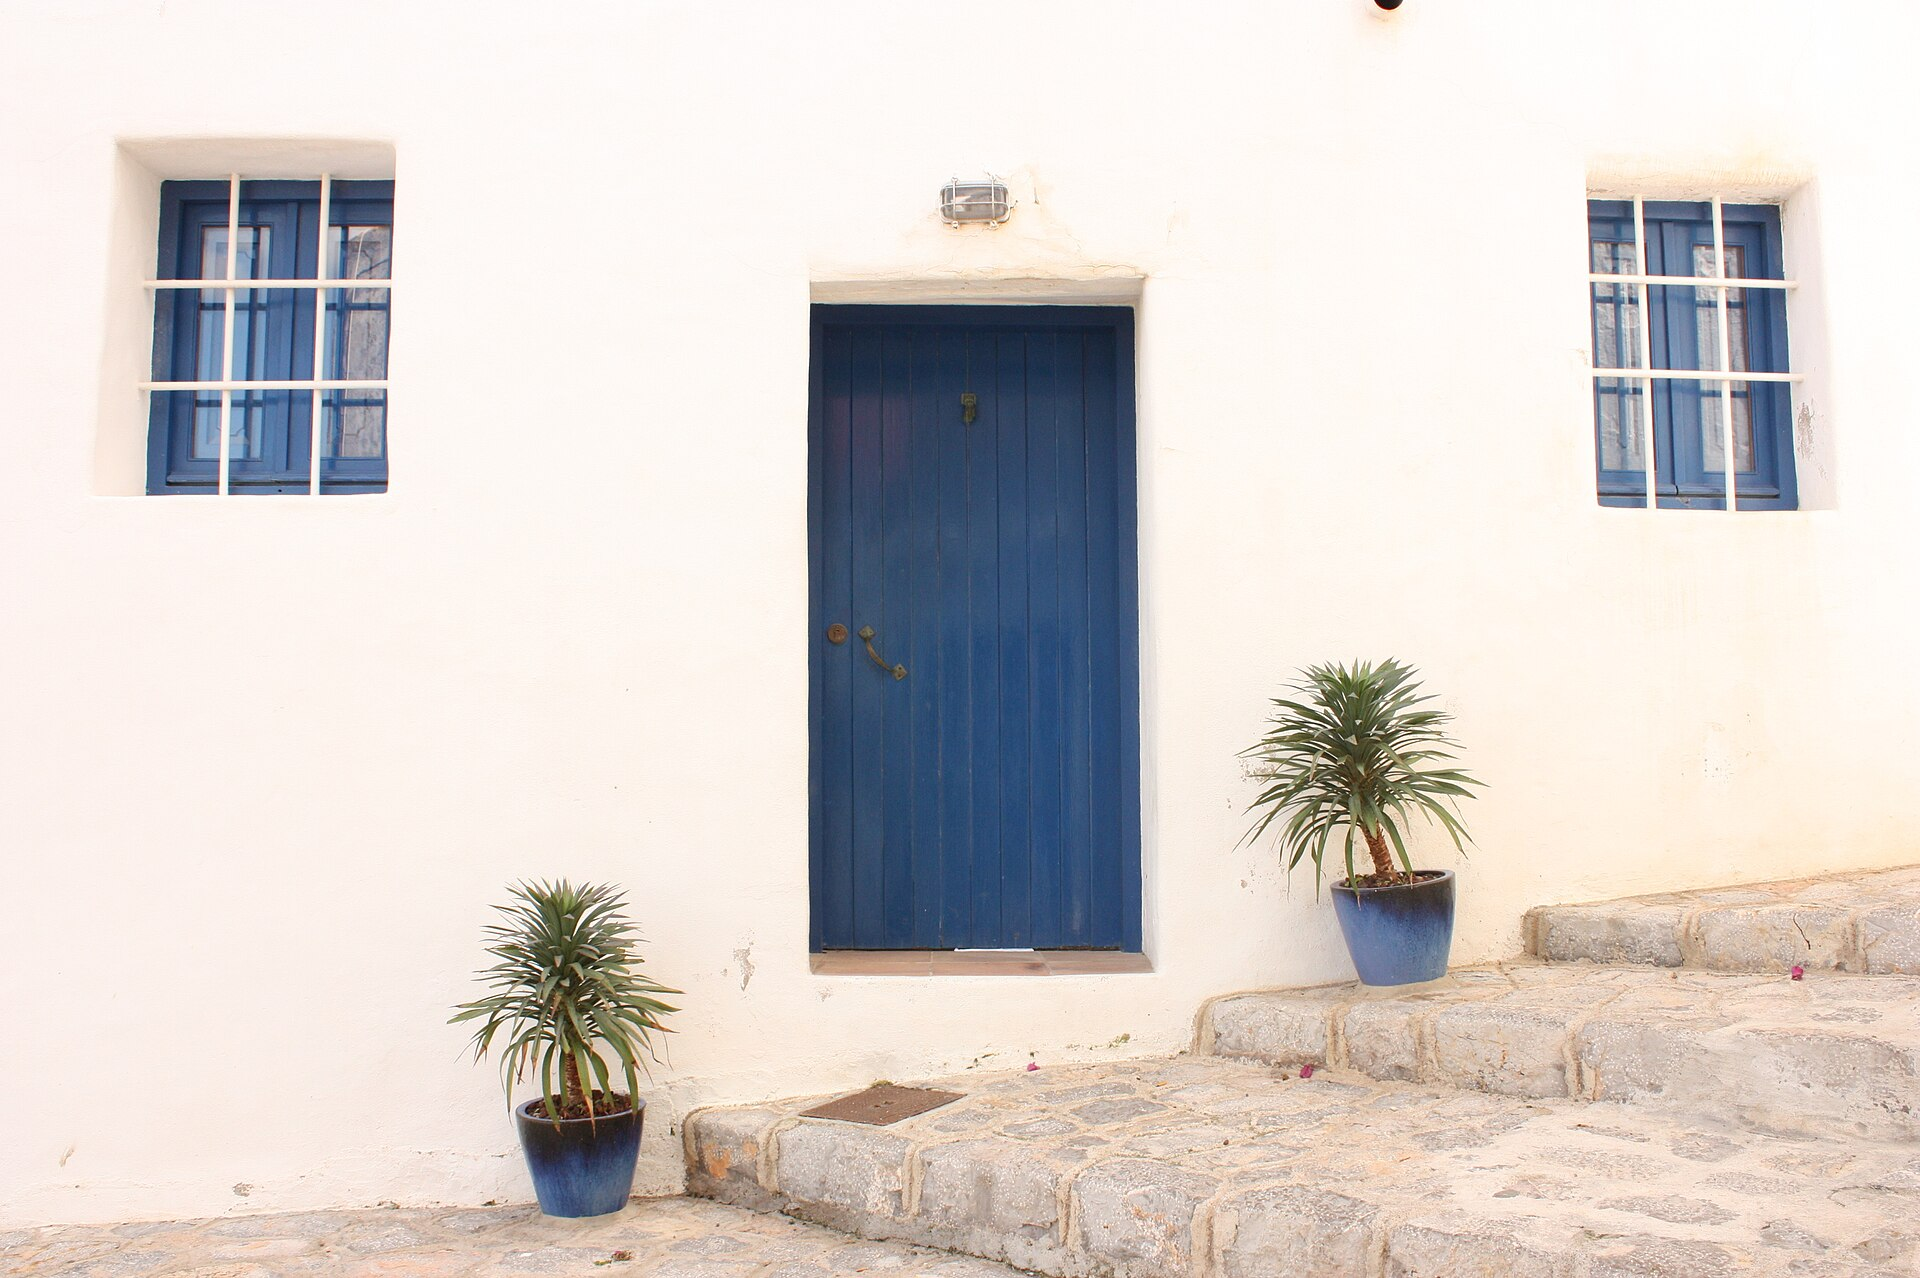
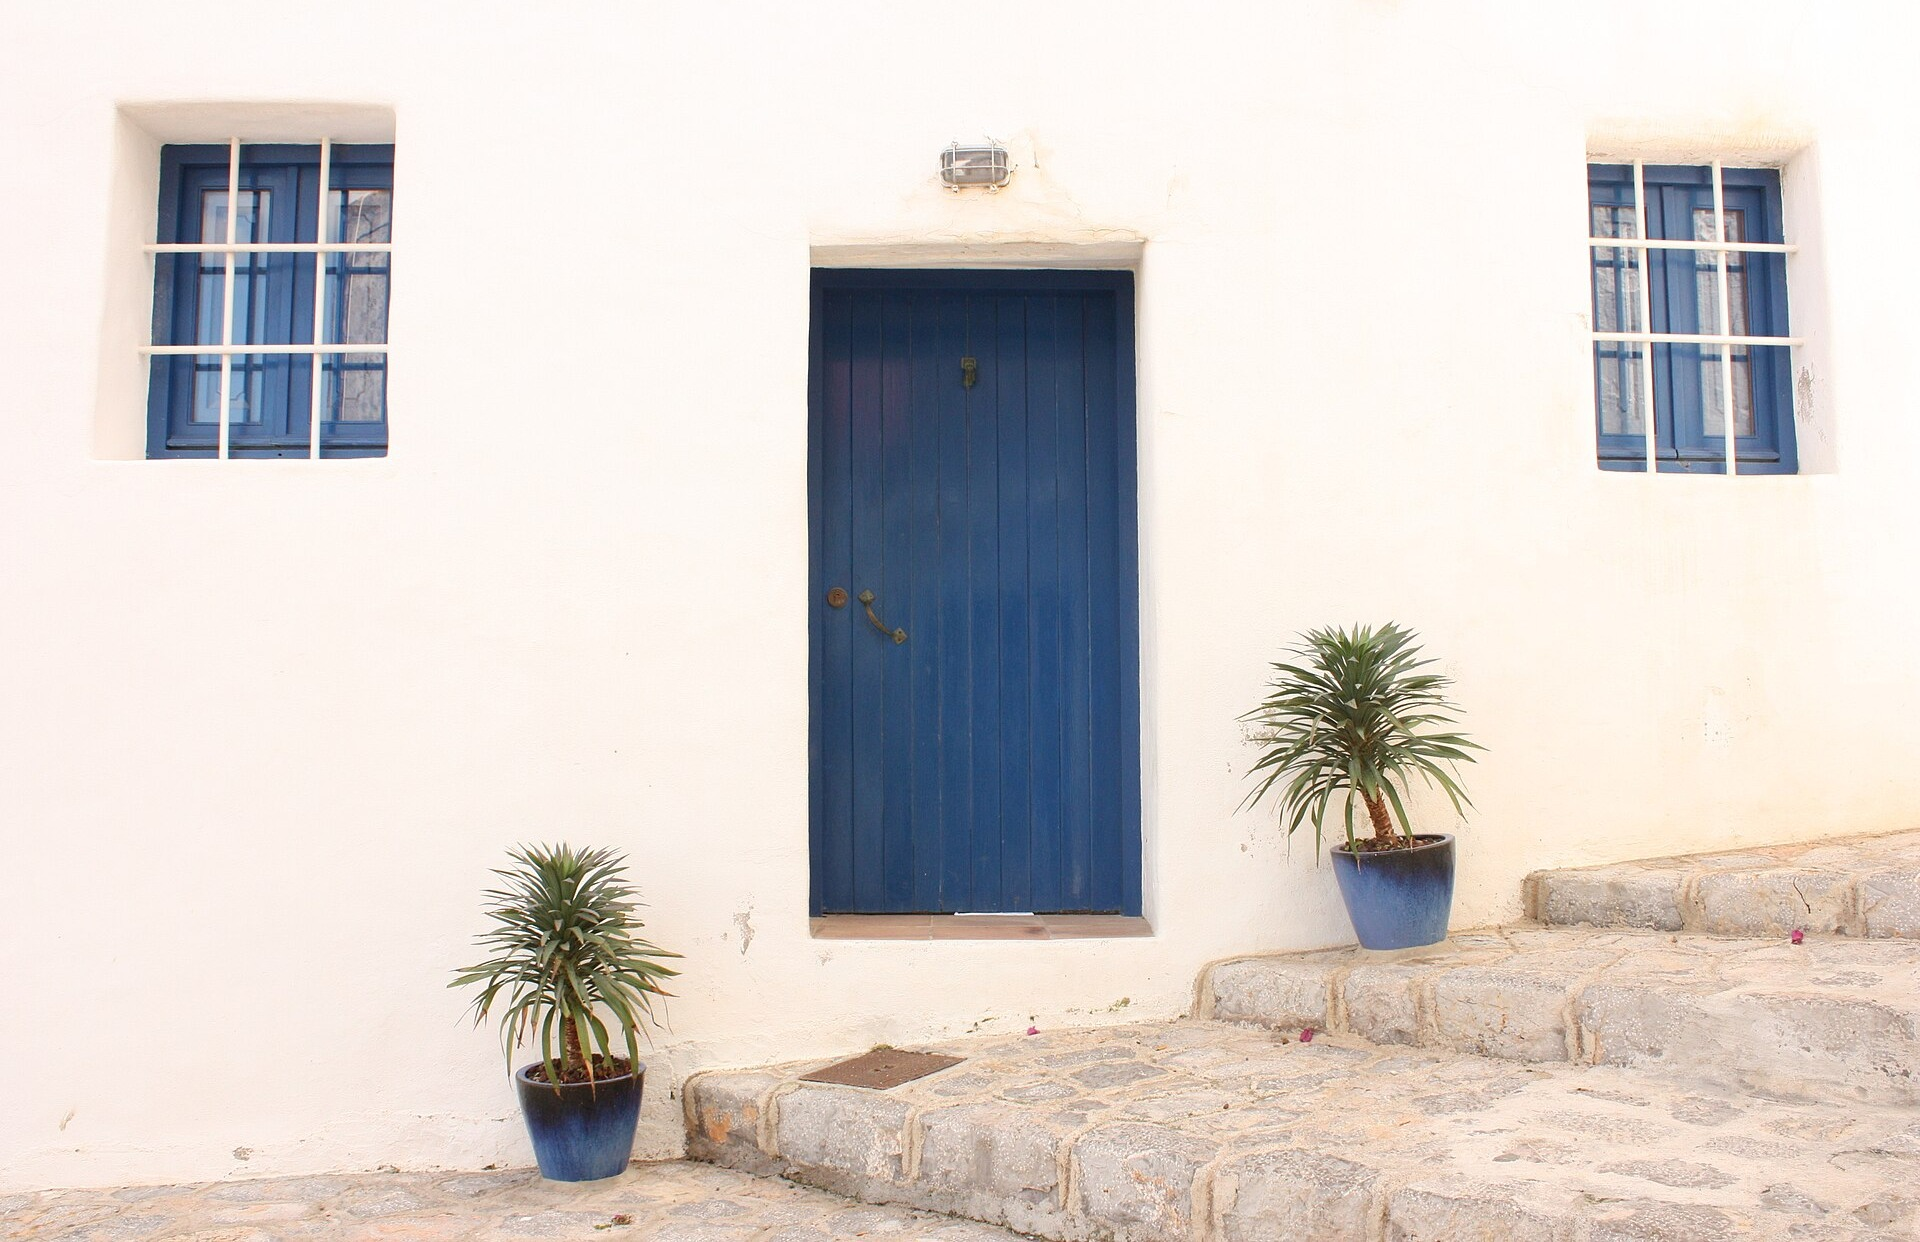
Trim a blemish from the opening photograph
Claude-Session: https://claude.ai/code/session_01QZ4oXmiVwDQG7aZpCMniAU

diff --git a/projects/balearic-real-estate/DESIGN.md b/projects/balearic-real-estate/DESIGN.md
@@ -1,0 +1,297 @@
+---
+name: Solell
+description: A small estate agency for Ibiza and Mallorca, set like an almanac on limewash, sand and terracotta.
+colors:
+  terracotta: "#A9492A"
+  terracotta-deep: "#8C3A1F"
+  on-terracotta: "#FBF4E8"
+  chalk: "#F5F2EA"
+  sand: "#E8DDC9"
+  ink: "#2A211B"
+  stone: "#665C51"
+  line: "#D5C9B4"
+  field-line: "#77695A"
+  error: "#8C2A14"
+typography:
+  display:
+    fontFamily: "Newsreader, Newsreader Fallback, Georgia, serif"
+    fontSize: "clamp(2.75rem, 5.6vw + 1.2rem, 5.75rem)"
+    fontWeight: 300
+    lineHeight: 0.98
+    letterSpacing: "-0.025em"
+  headline:
+    fontFamily: "Newsreader, Newsreader Fallback, Georgia, serif"
+    fontSize: "clamp(2.25rem, 3.4vw + 1.3rem, 4rem)"
+    fontWeight: 300
+    lineHeight: 1.02
+    letterSpacing: "-0.02em"
+  title:
+    fontFamily: "Newsreader, Newsreader Fallback, Georgia, serif"
+    fontSize: "clamp(1.75rem, 2.5vw, 2.5rem)"
+    fontWeight: 300
+    lineHeight: 1
+    letterSpacing: "-0.02em"
+  subtitle:
+    fontFamily: "Newsreader, Newsreader Fallback, Georgia, serif"
+    fontSize: "clamp(1.375rem, 1vw + 1.1rem, 1.75rem)"
+    fontWeight: 300
+    lineHeight: 1.32
+  lead:
+    fontFamily: "Newsreader, Newsreader Fallback, Georgia, serif"
+    fontSize: "clamp(1.125rem, 0.4vw + 1.02rem, 1.25rem)"
+    fontWeight: 400
+    lineHeight: 1.5
+  body:
+    fontFamily: "Hanken Grotesk, Hanken Fallback, system-ui, sans-serif"
+    fontSize: "1.0625rem"
+    fontWeight: 400
+    lineHeight: 1.55
+  action:
+    fontFamily: "Hanken Grotesk, Hanken Fallback, system-ui, sans-serif"
+    fontSize: "0.9375rem"
+    fontWeight: 500
+    lineHeight: 1
+  caption:
+    fontFamily: "Hanken Grotesk, Hanken Fallback, system-ui, sans-serif"
+    fontSize: "0.875rem"
+    fontWeight: 400
+    lineHeight: 1.4
+  label:
+    fontFamily: "Hanken Grotesk, Hanken Fallback, system-ui, sans-serif"
+    fontSize: "0.78rem"
+    fontWeight: 500
+    lineHeight: 1.2
+    letterSpacing: "0.14em"
+rounded:
+  none: "0"
+  control: "2px"
+spacing:
+  s1: "0.25rem"
+  s2: "0.5rem"
+  s3: "0.75rem"
+  s4: "1rem"
+  s5: "1.5rem"
+  s6: "2rem"
+  s7: "3rem"
+  s8: "4rem"
+  s9: "6rem"
+  s10: "8rem"
+  gutter: "clamp(1.25rem, 4.4vw, 4rem)"
+  section: "clamp(4.5rem, 9vw, 9rem)"
+  measure: "34rem"
+  max: "90rem"
+components:
+  button-primary:
+    backgroundColor: "{colors.terracotta}"
+    textColor: "#ffffff"
+    typography: "{typography.action}"
+    rounded: "{rounded.control}"
+    padding: "0 1.5rem"
+    height: "3rem"
+  button-primary-hover:
+    backgroundColor: "{colors.terracotta-deep}"
+  button-quiet:
+    backgroundColor: "transparent"
+    textColor: "{colors.ink}"
+    typography: "{typography.action}"
+    rounded: "{rounded.control}"
+    padding: "0 1.5rem"
+    height: "3rem"
+  button-quiet-hover:
+    backgroundColor: "{colors.ink}"
+    textColor: "{colors.chalk}"
+  button-light:
+    backgroundColor: "{colors.on-terracotta}"
+    textColor: "{colors.ink}"
+    typography: "{typography.action}"
+    rounded: "{rounded.control}"
+    padding: "0 1.5rem"
+    height: "3rem"
+  button-light-hover:
+    backgroundColor: "{colors.ink}"
+    textColor: "{colors.on-terracotta}"
+  text-link:
+    textColor: "{colors.ink}"
+    typography: "{typography.action}"
+    padding: "0.75rem 0"
+    height: "2.75rem"
+  text-link-hover:
+    textColor: "{colors.terracotta-deep}"
+  input:
+    backgroundColor: "{colors.chalk}"
+    textColor: "{colors.ink}"
+    typography: "{typography.body}"
+    rounded: "{rounded.control}"
+    padding: "0.75rem 1rem"
+    height: "3rem"
+  choice:
+    backgroundColor: "{colors.chalk}"
+    textColor: "{colors.ink}"
+    rounded: "{rounded.control}"
+    padding: "0 1.5rem"
+    height: "2.75rem"
+  choice-selected:
+    backgroundColor: "{colors.ink}"
+    textColor: "{colors.chalk}"
+  frame:
+    backgroundColor: "{colors.sand}"
+    rounded: "{rounded.none}"
+  name-tab:
+    backgroundColor: "{colors.chalk}"
+    textColor: "{colors.ink}"
+    typography: "{typography.title}"
+    padding: "0.36em 0.6em 0.08em 0"
+  panel:
+    backgroundColor: "{colors.sand}"
+    rounded: "{rounded.none}"
+    padding: "clamp(1.5rem, 4vw, 3.5rem)"
+---
+
+# Design System: Solell
+
+## Overview
+
+**Creative North Star: "The Almanac"**
+
+Solell reads like a small printed almanac of houses: each entry has a name, a place and a sentence before it has a figure. The page is paper. A chalk-limewash ground carries almost everything, a sand ground marks a change of chapter, one terracotta owns every action and one whole section, and a warm brown-black ink does the reading. Nothing glows, floats or sits on a photograph.
+
+Two typefaces split the work. Newsreader, light and often italic, is the voice: headlines, names of houses and islands, the sentences that carry judgement. Hanken Grotesk is the record: facts, prices, captions, labels, controls. Photographs are objects on the page, framed, square-cornered and captioned beneath, with the italic name of the thing cut into the bottom edge on a tab of the ground colour.
+
+Density is low and the rhythm is editorial: asymmetric two-column sections, one column dropped below the other, hairline rules instead of boxes. Motion is page-like: one authored entrance on the opening, a name tab that slides into place as its photograph arrives, and underlines that draw.
+
+**Key Characteristics:**
+- Paper grounds (chalk, sand), one terracotta, warm ink; no gradients, no tints of other hues.
+- Newsreader Light with italics for voice; Hanken Grotesk for facts.
+- Framed 4:5 photographs with captions beneath; never a photograph behind text.
+- Italic names on paper tabs overlapping the bottom of the frame.
+- Hairline rules (1px) and square corners; controls soften to 2px.
+- Flat surfaces; depth comes from ground changes and overlap.
+
+## Colors
+
+A sunlit, earthen palette: two paper grounds, one fired-clay accent and warm neutrals, all leaning the same yellow-red way.
+
+### Primary
+- **Terracotta** (`terracotta`): every primary action, the small place labels on chalk, the italic island group headings, the vertical italic beside the opening photograph, the focus ring, text selection and caret. It is also the ground of one whole section (the process section), where it carries `on-terracotta` text.
+- **Deep Terracotta** (`terracotta-deep`): hover state of the primary button and of text links, small terracotta text when it sits on sand, and the placeholder ground of a photograph frame inside the terracotta section.
+- **Limewash on Terracotta** (`on-terracotta`): text, captions and the light button on the terracotta ground; rules there are this colour at 32% opacity.
+
+### Neutral
+- **Chalk** (`chalk`): the page ground, the header, input and choice backgrounds, and the tab behind a home's name.
+- **Sand** (`sand`): the second ground. It backs the right half of the opening, the islands section and the enquiry panel, and it is the placeholder colour of every photograph frame.
+- **Warm Ink** (`ink`): all primary text, the quiet button's outline, the selected choice, the footer ground.
+- **Stone** (`stone`): secondary text on chalk and sand: captions, facts, descriptors, form notes.
+- **Line** (`line`): 1px hairline rules and section dividers on chalk and sand. Decorative only; it does not bound a control.
+- **Field Line** (`field-line`): borders of inputs and choices, the one neutral that must reach 3:1 against both grounds.
+- **Error** (`error`): invalid field border, field messages and the form's error summary.
+
+### Named Rules
+**The One Clay Rule.** Terracotta is the only accent. It marks actions and place, and it may take over one full section per page as a ground. No second accent, no tint of terracotta as a surface.
+
+**The Clean Ground Rule.** Text sits on chalk, sand, terracotta or ink, never on a photograph and never on a gradient.
+
+**The Sand Darkens Rule.** Small terracotta text is for chalk. On sand, use `terracotta-deep`; plain terracotta on sand is reserved for large italic display.
+
+## Typography
+
+**Display Font:** Newsreader, variable 200 to 800 with a true italic (fallback: metric-matched Georgia, then serif)
+**Body Font:** Hanken Grotesk, variable (fallback: metric-matched Arial, system-ui)
+
+**Character:** A light newspaper serif with a generous italic set against a plain, even grotesque. The serif speaks and names; the sans keeps the record. Both are self-hosted.
+
+### Hierarchy
+- **Display** (300, `clamp(2.75rem, 5.6vw + 1.2rem, 5.75rem)`, 0.98, -0.025em): the page headline only, balanced, held to about 9.4em wide, with one phrase in italic.
+- **Headline** (300, `clamp(2.25rem, 3.4vw + 1.3rem, 4rem)`, 1.02, -0.02em): section headings, each with an italic second clause. Set italic throughout, the same size names an island and the form's thank-you.
+- **Title** (300 italic, `clamp(1.75rem, 2.5vw, 2.5rem)`, 1, -0.02em): the name of a home on its tab.
+- **Subtitle** (300, `clamp(1.375rem, 1vw + 1.1rem, 1.75rem)`, 1.32): the large statement paragraph; in italic terracotta it heads a group of homes; at weight 400 and 1.15 it titles a process step.
+- **Lead** (400, `clamp(1.125rem, 0.4vw + 1.02rem, 1.25rem)`, 1.5): serif running text, capped at 34rem, wrapped pretty. Home descriptions use it at 1.45.
+- **Body** (400, 1.0625rem, 1.55): sans text for process steps, form fields and anything factual.
+- **Action** (500, 0.9375rem): buttons, text links, navigation, field labels.
+- **Caption** (400, 0.875rem, 1.4): photograph captions, facts and prices (lining tabular figures), notes, in `stone`.
+- **Label** (500, 0.78rem, 0.14em, uppercase): place names beneath a home's name, lists of areas, terms in the contact list.
+
+### Named Rules
+**The Voice and Record Rule.** If a line carries judgement or a name, it is Newsreader. If it carries a fact, a figure or an instruction, it is Hanken Grotesk.
+
+**The Italic Names Rule.** Italic is for proper names (homes, islands, the wordmark) and for the turned clause of a heading. It is not general emphasis.
+
+**The Label Below Rule.** The uppercase label never sits above a heading. It follows the name it locates, or stands as the term of a list.
+
+## Layout
+
+A centred container of 90rem with a fluid gutter (`clamp(1.25rem, 4.4vw, 4rem)`). Sections are separated by one fluid interval (`clamp(4.5rem, 9vw, 9rem)`); everything inside uses the ten-step space scale. Full-bleed grounds (sand, terracotta, ink) run edge to edge while their content keeps the container.
+
+Sections are two unequal columns, text against a single framed photograph or panel: 1:1 for the opening, 7:3, 7:4 and 5:6 elsewhere. Paired or tripled items are staggered rather than aligned: the middle home of three sits 4rem lower, the second island 6rem lower. Home cards run three across, two below 1100px (the third held to half width), one below 700px. Below 900px every section becomes one column, the staggers flatten, secondary photographs narrow to about three-quarters of the column, the header drops its navigation and action, and a full-width primary button docks to the bottom of the screen until an on-page action or the enquiry section is in view.
+
+The opening fills the first screen (`min(100svh - header, 54rem)`) as a split: text on chalk, photograph on sand. Its frame takes its width from the available height so it stays 4:5 at any viewport.
+
+**The Four-by-Five Rule.** Photographs of houses and details are framed 4:5 portrait. The two island photographs are 3:2 landscape: a place, not a house. No other ratio.
+
+## Elevation & Depth
+
+Flat. Surfaces have no shadows and no borders around them; depth is tonal (chalk, then sand, then terracotta or ink) and physical (a name tab overlapping the bottom of its photograph). The sticky header is opaque chalk over a hairline.
+
+### Shadow Vocabulary
+- **Dock shadow** (`box-shadow: 0 10px 28px -10px rgb(42 33 27 / 0.55)`): only under the phone action bar, the one element that floats over the page.
+
+### Named Rules
+**The Floating Only Rule.** A shadow means the element is fixed above scrolling content. Nothing in the flow of the page casts one.
+
+## Shapes
+
+Square. Photograph frames, panels, the error summary and name tabs have no radius. Controls (buttons, inputs, choices) and the focus ring soften by 2px, just enough to stop a hard pixel corner. Structure is drawn with 1px hairlines: under the header, above a section head, above a card's facts, between process steps, trailing a group heading to the edge of the column. The focus indicator is a 2px terracotta outline offset 3px (1px on text fields), switching to the pale ground colour on terracotta and ink.
+
+## Components
+
+### Buttons
+Plain and assured: a solid block of terracotta, no icon, sentence case.
+- **Shape:** 3rem tall, 1.5rem side padding, 2px radius, 1px border in the fill colour.
+- **Primary:** terracotta fill with white text; hover deepens to `terracotta-deep`; active drops 1px.
+- **Quiet:** transparent with ink text and ink border; hover fills ink with chalk text. Pairs with a primary, never alone as the main action.
+- **Light:** `on-terracotta` fill with ink text, for the terracotta ground; hover fills ink.
+- **Transitions:** colour over 180ms.
+
+### Text link
+A sans 500 link with a 1px underline drawn as a background, at least 2.75rem tall. On hover the underline retracts to the right over 420ms and the text turns `terracotta-deep`. Navigation links do the reverse: no underline at rest, one drawn in from the left on hover.
+
+### Framed photograph
+A square-cornered frame on a sand placeholder, image cropped to cover, 4:5. Beneath it a caption row in `stone`: what it shows on the left, the island on the right. Inside a home card the image eases to 1.025 scale on hover over 900ms.
+
+### Name tab (signature)
+The italic name of a home or island sits on a tab of the surrounding ground colour, pulled up over the bottom-left of its photograph (about -0.9em for a home, -0.62em for an island) and shrink-wrapped to the text, so the name appears cut into the picture. Where scroll-driven animation is supported, the tab wipes in from the left and rises 0.5em as the card enters.
+
+### Home card
+Top to bottom, left-aligned: framed photograph, name tab, terracotta label with place and island, one serif sentence, a hairline, then facts on the left and price on the right in caption size (price in ink at 500), and a text link to enquire. No border, no background, no radius.
+
+### Inputs / Fields
+- **Style:** chalk fill, 1px `field-line` border, 2px radius, 3rem tall, label above in Action type. Text areas start at 8rem.
+- **Hover / Focus:** border turns ink on hover; focus adds the 2px terracotta outline and a terracotta border.
+- **Error:** `error` border doubled by a 1px inset, a message beneath in caption size at 500, and a bordered summary on chalk at the top of the form.
+- **Choice:** radio options as 2.75rem outlined blocks; the selected one fills ink with chalk text.
+- **Panel:** forms sit on a square sand panel with fluid padding.
+
+### Navigation
+A sticky chalk bar 4.75rem tall over a hairline: italic serif wordmark (400, 1.9rem), a `stone` descriptor behind a vertical hairline, three anchor links pushed right, then a primary button. On phones only the wordmark and descriptor remain; the docked button carries the action.
+
+### Footer
+Ink ground with pale sand text. An oversized italic wordmark in `sand` (`clamp(5rem, 17vw, 15rem)`), then three columns: a serif line, a disclosure paragraph, and hairline-ruled disclosure rows with a drawn chevron that turns when open.
+
+## Do's and Don'ts
+
+### Do:
+- **Do** frame every photograph square-cornered with its caption beneath: 4:5 for houses and details, 3:2 for the two islands only.
+- **Do** put the name before the figure: italic name on its tab, then place, then a sentence, then facts and price.
+- **Do** keep terracotta for actions, place labels and one full section; use `terracotta-deep` for small text on sand.
+- **Do** separate with 1px `line` rules and ground changes, and bound controls with `field-line`.
+- **Do** keep targets at least 2.75rem tall and buttons 3rem.
+- **Do** stagger paired items (4rem or 6rem) on wide screens and flatten the stagger in one column.
+- **Do** honour reduced motion: every entrance and transition collapses, and content is visible without any of them.
+
+### Don't:
+- **Don't** set text over a photograph or use a photograph as a section background.
+- **Don't** add a second accent colour, a gradient, or gold on black.
+- **Don't** open with an aerial bay, an infinity pool, a search box or a portfolio count.
+- **Don't** place the uppercase label above a heading.
+- **Don't** give cards borders, fills, radii or shadows; only the docked phone button casts a shadow.
+- **Don't** round frames or panels, or round controls beyond 2px.
+- **Don't** use italic for emphasis in running text, or a script face for the wordmark.
